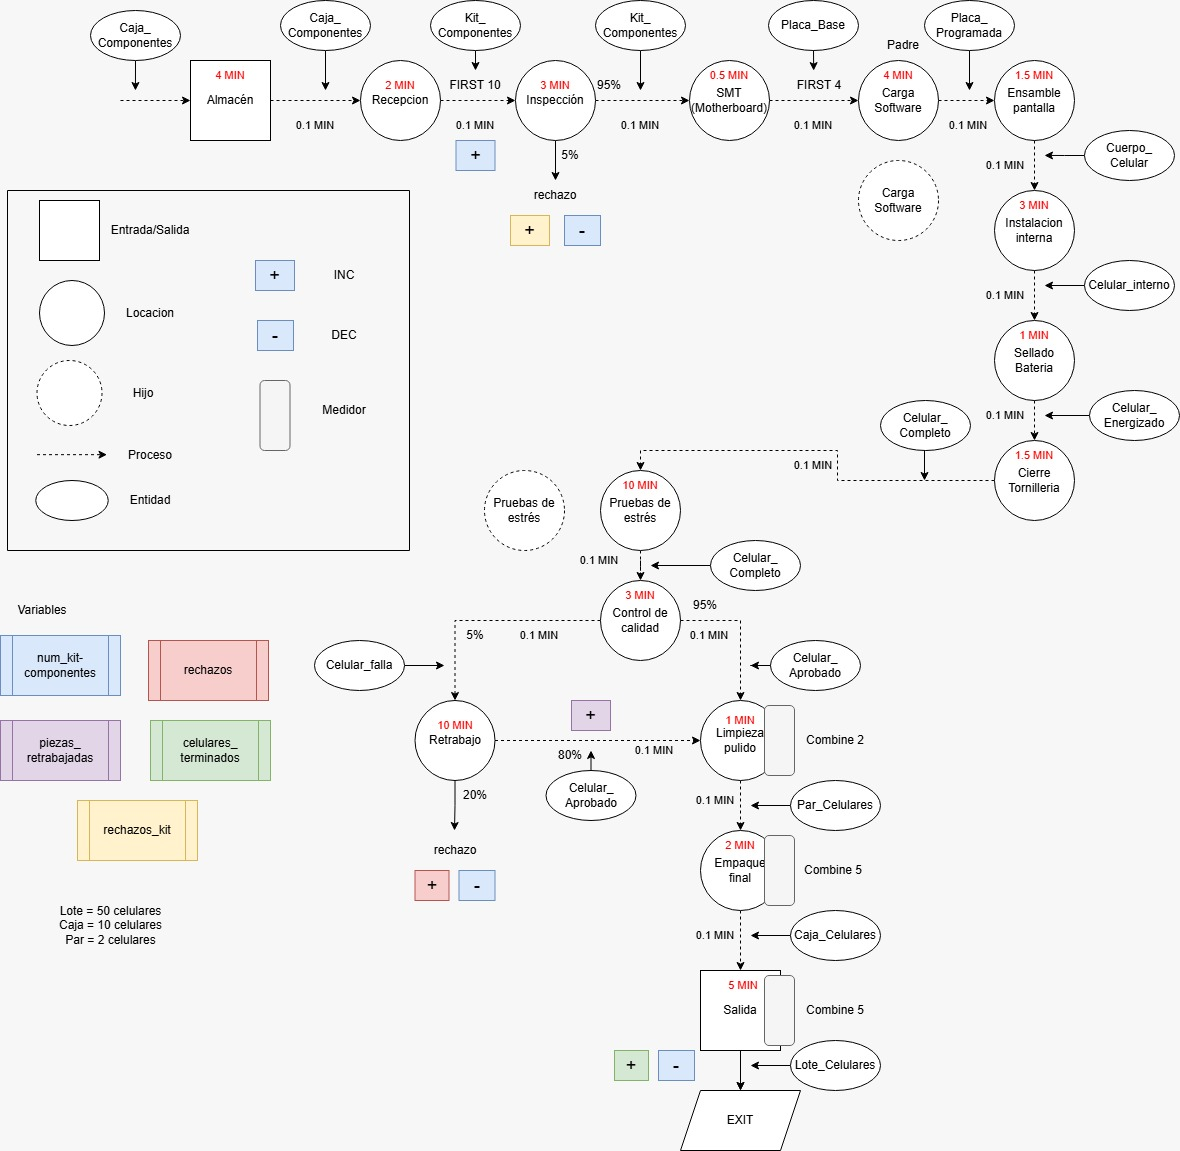
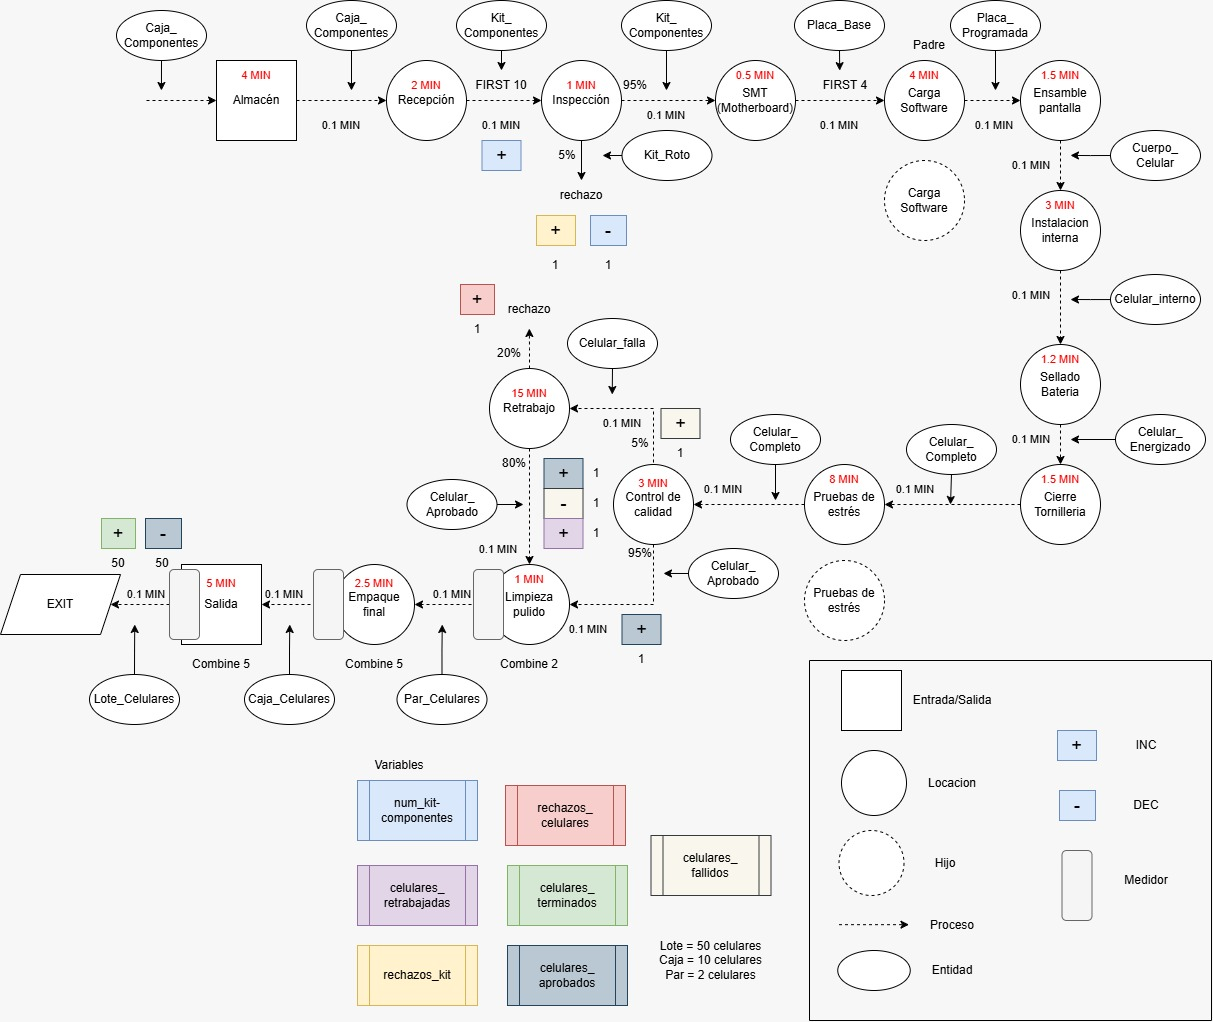
Primer modelo terminado antes de revision del maestro

diff --git a/README.md b/README.md
@@ -4,3 +4,8 @@ Ultimos ajustes 18/02/2026 en la noche
 Se hizo una reunion por medio de Discord y se creo el diagrama y la base del modelo
 
 El modelo requiere modificaciones para quedar acorde con el diagrama existente
+-----------
+Se actualizo el modelo para presentar en el primer parcial, el diagrama tambien sufrio cambios
+Se agrego el reporte en el que estan basadas las conclusiones del archivo final
+A esta hora aun no se termina el primer reporte final, pero se espera en la siguiente 
+actualizacion subir el reporte final entregado y las sugerencias y observaciones del maestro
